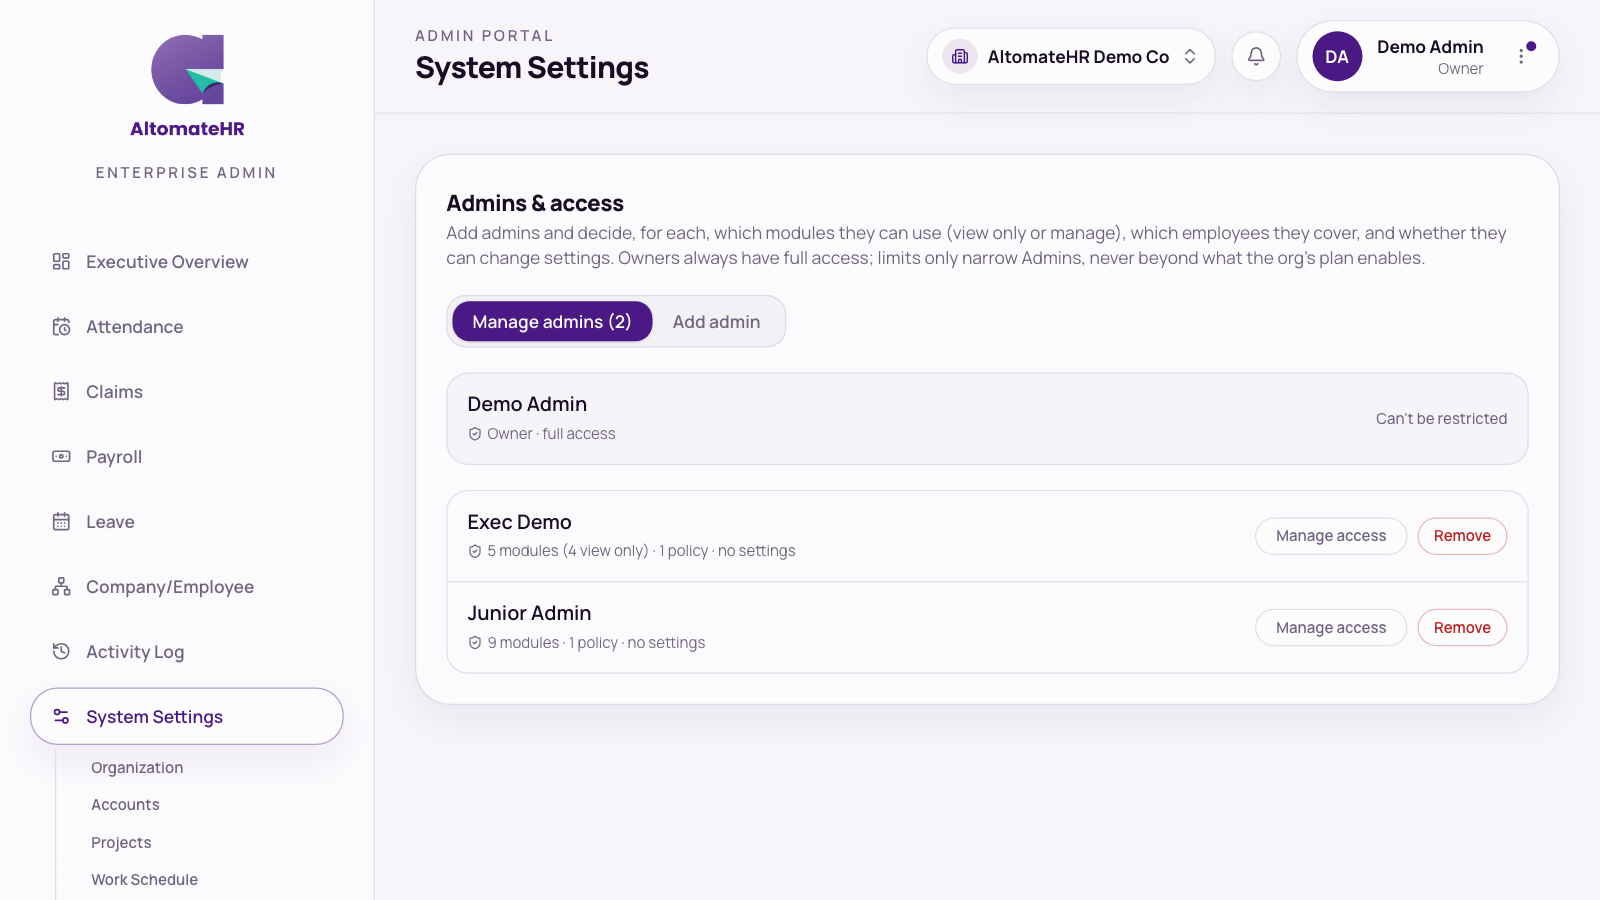
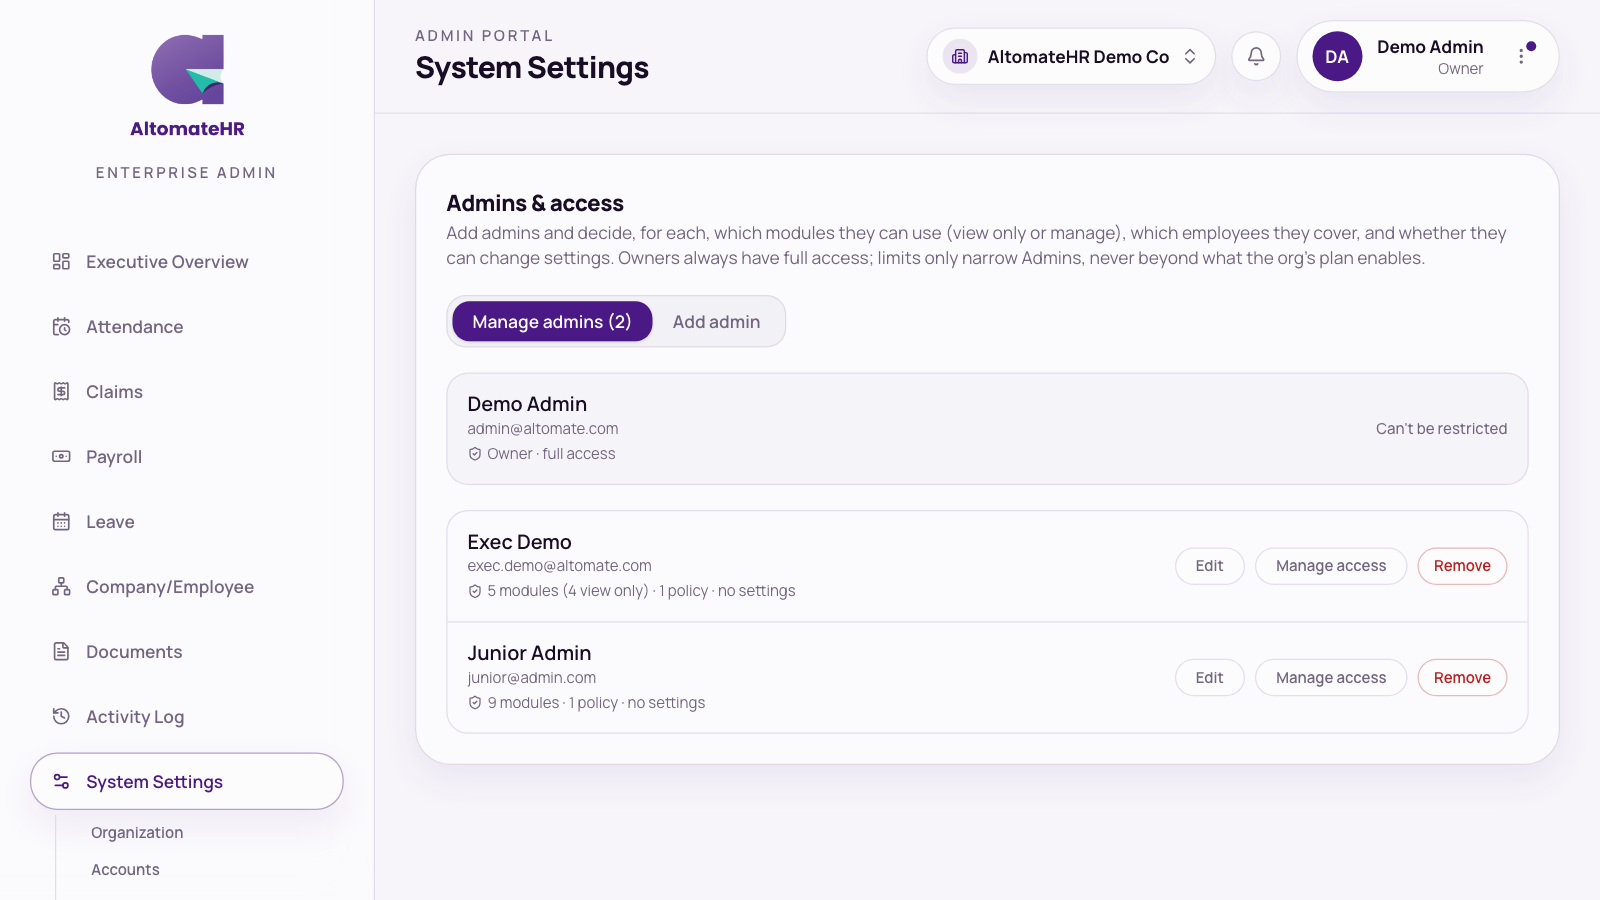
docs: what's new, API docs and guides for the zips and admin email edit

diff --git a/user-guide/altomatehr-admin-guide.html b/user-guide/altomatehr-admin-guide.html
@@ -7,7 +7,7 @@
   Bookmark: this page is correct as of this commit on main. The next update
   re-checks every user-visible change after it — from any branch — then
   moves it forward.
-  user-guide-covered-up-to: 5016471
+  user-guide-covered-up-to: dca207e
 -->
 <html lang="en">
 <head>
@@ -544,9 +544,14 @@
           saying so.</p></li>
       <li><h4>Admins <span class="badge owner">Owner only</span></h4>
         <p>Add admins and decide how far each one can go. Owners are listed too, marked <em>Owner · full access</em> —
-          an owner's access can't be restricted. Each admin row shows a one-line summary (for example
-          <em>5 modules (3 view only) · 1 policy · no settings</em>) and two buttons:</p>
+          an owner's access can't be restricted. Each admin row shows their name with their login email underneath, a one-line summary (for example
+          <em>5 modules (3 view only) · 1 policy · no settings</em>) and three buttons:</p>
         <ul>
+          <li><span class="btn-name">Edit</span> — opens <strong>Edit admin</strong> to change their
+            <strong>Name</strong> and <strong>Email</strong>, then <span class="btn-name">Save</span>. The email is the one
+            they sign in with, and it changes in every company they belong to. If that login also opens a company you
+            don't own, the email can't be changed here and the dialog tells you to ask Altomate support; the name can
+            still be changed.</li>
           <li><span class="btn-name">Manage access</span> — opens a dialog with three tabs, then
             <span class="btn-name">Save</span>:
             <ul>
@@ -576,8 +581,12 @@
     <figure class="shot" data-place="System Settings">
       <div class="shot-grid" data-orient="screen">
         <div class="shot-item">
-          <img src="shots/admin/admins-list.png" alt="System Settings → Admins: the owner marked full access, and an admin row with Manage access and Remove buttons" loading="lazy">
+          <img src="shots/admin/admins-list.png" alt="System Settings → Admins: the owner marked full access, and two admin rows, each with the login email under the name and Edit, Manage access and Remove buttons" loading="lazy">
           <p class="shot-cap">Admins</p>
+        </div>
+        <div class="shot-item">
+          <img src="shots/admin/admins-edit.png" alt="The Edit admin dialog with the Name and Email boxes, a note that the email changes in every company they belong to, and Cancel and Save" loading="lazy">
+          <p class="shot-cap">Edit admin</p>
         </div>
         <div class="shot-item">
           <img src="shots/admin/admins-access-modules.png" alt="The Manage access dialog on its Modules tab, with Off, View and Manage for each module" loading="lazy">
@@ -877,6 +886,13 @@
     </figure>
     <p>Edits are saved with the bar at the bottom. <span class="btn-name">Set password</span> in the header sets a new
       password for them — hand it over outside email.</p>
+    <p>The <strong>Email</strong> on a person's record is the email they sign in with, so it changes everywhere they
+      work. Saving is refused, with a message saying why, in these cases:</p>
+    <ul>
+      <li>The person's login is also used in a company you don't own. Ask Altomate support to change it.</li>
+      <li>The person is an admin and you aren't the owner. Only the owner can change an admin's login email.</li>
+      <li>The person is an owner. An owner's login email is changed only through Altomate support (an owner can change their own).</li>
+    </ul>
     <h3>Archiving, and employment history</h3>
     <p>On the Employment tab, turn on <strong>Archive this employee</strong> and set their last day and reason. Payroll
       still pays them up to their last day, then leaves them out. At the bottom of the tab, <strong>Employment
@@ -1576,9 +1592,10 @@
     <div class="tbl-scroll"><table>
       <thead><tr><th>Group</th><th>Files</th><th>Where it goes</th></tr></thead>
       <tbody>
-        <tr><td>Reports</td><td>Payroll Summary (as a PDF or as Excel), Payment Schedule (who is paid what, split into the bank file and those paid manually), PCB Calculation Details, Allowance Report (Excel), Deduction Report (Excel)</td><td>Your records / approver</td></tr>
+        <tr><td>Reports</td><td>Payroll Summary (as a PDF or as Excel), Payment Schedule (who is paid what, split into the bank file and those paid manually), PCB Calculation Details, Allowance &amp; Deduction Reports (ZIP)</td><td>Your records / approver</td></tr>
         <tr><td></td><td>AB Pay timesheet (Excel) — only if your company is connected to ABPay</td><td>The ABPay app, and your records</td></tr>
-        <tr><td>Statutory</td><td>EPF Contribution CSV</td><td>KWSP i-Akaun</td></tr>
+        <tr><td>Statutory</td><td><span class="btn-name">Download EPF, SOCSO &amp; PCB (zip)</span> — the four files below in one zip</td><td>See each file below</td></tr>
+        <tr><td></td><td>EPF Contribution CSV</td><td>KWSP i-Akaun</td></tr>
         <tr><td></td><td>SOCSO + EIS Contribution TXT (v1)</td><td>PERKESO ASSIST — for months before June 2026, or while PERKESO still accepts either layout (June to September 2026)</td></tr>
         <tr><td></td><td>SOCSO + EIS + SKBBK Contribution TXT (ASSIST 2.0)</td><td>PERKESO ASSIST 2.0 — compulsory from June 2026</td></tr>
         <tr><td></td><td>PCB / MTD TXT (CP39)</td><td>LHDN e-PCB — the file is named with your employer number, the month and the year, for example <em>6051351020072026.txt</em></td></tr>
@@ -1594,6 +1611,14 @@
         <em>… (1).txt</em>, and LHDN refuses that name. Rename it (for example to <em>6051351020072026.txt</em>), or
         use the first copy.</p>
     </div>
+    <h3>All the agency uploads in one zip</h3>
+    <p>At the <strong>Statutory uploads</strong> heading, <span class="btn-name">Download EPF, SOCSO &amp; PCB (zip)</span>
+      gives you one zip holding the EPF CSV, both SOCSO + EIS files (the v1 layout and the ASSIST 2.0 layout with SKBBK)
+      and the PCB file. Open the zip and upload each file to its own portal, named as in the table above. You don't have to tick anything first.</p>
+    <p>A file that can't be made yet — for example the PCB file when the employer tax number is missing — is left out
+      of the zip. A line under the heading says how many files came down, and the row of each missing file says why, in the
+      same words as when you download that file on its own. Fix what it asks for and press the button again. The single-file
+      buttons are still there when you only want one.</p>
     <h3>The bank file follows your bank</h3>
     <ul>
       <li><strong>Public Bank</strong> — ECP Bulk Payroll (.xlsx)</li>
@@ -1659,13 +1684,14 @@
         deductions the company keeps (loans and Miscellaneous / Other Deduction), not other deductions taken from net
         pay, such as CP38.</p>
     </div>
-    <h3>Allowance and Deduction reports (Excel)</h3>
-    <p>The Reports group also has <strong>Allowance Report (Excel)</strong> and <strong>Deduction Report (Excel)</strong>.
-      Each has one row per employee and one column per item, with a totals row at the bottom.</p>
+    <h3>Allowance and Deduction reports (ZIP)</h3>
+    <p>The Reports group has one row, <strong>Allowance &amp; Deduction Reports (ZIP)</strong>, with both Excel reports in
+      a single zip. (They used to be two separate rows.) Each report has one row per employee and one column per item,
+      with a totals row at the bottom.</p>
     <ul>
-      <li><strong>Allowance Report</strong> lists every allowance on the run. Benefits in kind are listed but not
+      <li><strong>Allowance report</strong> lists every allowance on the run. Benefits in kind are listed but not
         counted as cash in the totals.</li>
-      <li><strong>Deduction Report</strong> lists deductions other than EPF, SOCSO, EIS and PCB, such as loans, unpaid
+      <li><strong>Deduction report</strong> lists deductions other than EPF, SOCSO, EIS and PCB, such as loans, unpaid
         leave and advances. Unpaid leave and advances are listed but not added into the total, because the payslip
         takes them off gross pay instead.</li>
     </ul>
@@ -1689,7 +1715,12 @@
     <figure class="shot" data-place="Files">
       <div class="shot-grid" data-orient="screen">
         <div class="shot-item">
-          <img src="shots/admin/payroll-downloads.png" alt="The Download files dialog, Reports group: Payroll Summary, Allowance Report (Excel), Deduction Report (Excel) and Payment Schedule" loading="lazy">
+          <img src="shots/admin/payroll-downloads.png" alt="The Download files dialog, Reports group: Payroll Summary, Allowance &amp; Deduction Reports (ZIP), Payment Schedule and PCB Calculation Details" loading="lazy">
+          <p class="shot-cap">Reports</p>
+        </div>
+        <div class="shot-item">
+          <img src="shots/admin/payroll-downloads-statutory.png" alt="The Statutory uploads group in the Download files dialog, with the Download EPF, SOCSO &amp; PCB (zip) button beside the heading and the four agency files below it" loading="lazy">
+          <p class="shot-cap">Statutory uploads, one zip</p>
         </div>
       </div>
       <p class="shot-cap shot-cap-main">Downloading the month's files</p>

diff --git a/api-docs/payroll-runs.html b/api-docs/payroll-runs.html
@@ -1163,7 +1163,7 @@ curl -X PATCH https://&lt;api-host&gt;/payroll/runs/run_123 \
         <code>Payroll_Summary_January_2026_Workers.pdf</code>,
         <code>ABPay {Company name} 2026-01 Workers.xlsx</code> &mdash; except the PCB (CP39) file, whose name is
         letters and digits only because the e-PCB upload refuses anything else: <code>{10-digit employer no}012026Workers.txt</code>.
-        This covers the statutory files, the bank file, the payslips ZIP, the documents bundle, the run
+        This covers the statutory files, the bank file, the payslips ZIP, the documents bundle, the statutory and allowance/deduction zips, the run
         summary, payment schedule, PCB details, allowance, deduction and manual-payment reports and the
         ABPay timesheet. The single payslip PDF and the TP1 documents are per employee and keep their names.
         A run's own documents (summary, payment schedule, and so on) head their pages with the run
@@ -1240,6 +1240,39 @@ curl -X PATCH https://&lt;api-host&gt;/payroll/runs/run_123 \
         </ul>
 <pre><code>curl https://&lt;api-host&gt;/payroll/runs/run_123/files/pcb \
   -H "Authorization: Bearer wp_live_xxx" -o pcb.txt</code></pre>
+      </section>
+
+      <section class="endpoint" id="file-statutory-zip">
+        <div class="endpoint-head">
+          <span class="method get">GET</span>
+          <span class="path">/payroll/runs/{id}/files/statutory</span>
+          <span class="tag scope">payroll:read</span>
+        </div>
+        <p>The four statutory uploads above &mdash; EPF, SOCSO + EIS, SOCSO + EIS with SKBBK, and PCB (CP39) &mdash; in one zip, for the month-end filing.</p>
+        <p>The run must be approved and calculated here, as in the rest of this section: an unapproved run, or one imported from a previous system, answers <code>409</code>.</p>
+        <div class="callout warn">
+          <strong>A file that can't be produced is left out, not an error.</strong> A missing PERKESO Employer Code, a missing LHDN E-number or a non-numeric EPF number costs you that one file only; the rest still arrive. The same checks as the single-file routes apply &mdash; they just don't fail the request. Read the headers below to see what is missing. The reasons are not in a 200 response; call the single-file route for that file to read its message.
+        </div>
+        <h3>Response <code>200</code></h3>
+        <p><code>Content-Type: application/zip</code>, filename <code>Statutory_{Month}_{Year}.zip</code> (e.g. <code>Statutory_January_2026.zip</code>; a named run adds its <a href="#run-files">tag</a>). Inside, each file keeps the name it has when downloaded on its own, in the order EPF, SOCSO + EIS, SOCSO + EIS (SKBBK), PCB. Two extra headers:</p>
+        <div class="table-wrap">
+          <table>
+            <thead><tr><th>Header</th><th>Meaning</th></tr></thead>
+            <tbody>
+              <tr><td><code>X-Bundle-File-Count</code></td><td>How many files are in the zip (1 to 4).</td></tr>
+              <tr><td><code>X-Bundle-Skipped</code></td><td>Comma-separated keys of files left out, from <code>epf</code>, <code>socso-eis</code>, <code>socso-eis-skbbk</code>, <code>pcb</code>. Omitted entirely when nothing was left out.</td></tr>
+            </tbody>
+          </table>
+        </div>
+        <p>Browsers calling from another origin can read both headers and <code>Content-Disposition</code>.</p>
+        <h3>Errors</h3>
+        <ul>
+          <li><code>404</code> &mdash; no such run (empty body).</li>
+          <li><code>409</code> <code>{ "error": "…" }</code> &mdash; the run is not approved, or was imported from a previous system.</li>
+          <li><code>409</code> <code>{ "error": "None of the statutory files could be produced for this run. Each file's reason is listed with it.", "skipped": { "epf": "…", "socso-eis": "…", "socso-eis-skbbk": "…", "pcb": "…" } }</code> &mdash; none of the four could be produced. <code>skipped</code> maps each file's key to why. An empty zip is never returned.</li>
+        </ul>
+<pre><code>curl https://&lt;api-host&gt;/payroll/runs/run_123/files/statutory \
+  -H "Authorization: Bearer wp_live_xxx" -D - -o statutory.zip</code></pre>
       </section>
     </section>
 
@@ -1527,6 +1560,35 @@ curl "https://&lt;api-host&gt;/payroll/runs/month/2026/1/summary?format=xlsx" \
         </ul>
 <pre><code>curl https://&lt;api-host&gt;/payroll/runs/run_123/documents/deductions \
   -H "Authorization: Bearer wp_live_xxx" -o deductions.xlsx</code></pre>
+      </section>
+
+      <section class="endpoint" id="doc-allowances-deductions">
+        <div class="endpoint-head">
+          <span class="method get">GET</span>
+          <span class="path">/payroll/runs/{id}/documents/allowances-deductions</span>
+          <span class="tag scope">payroll:read</span>
+        </div>
+        <p>The <a href="#doc-allowances">Allowance report</a> and the <a href="#doc-deductions">Deduction report</a> in one zip. Same rules as the <a href="#file-statutory-zip">statutory zip</a>: the run must be approved and calculated here, and a report that can't be produced is left out rather than failing the request.</p>
+        <p>A run with only one of the two zips that one and names the other in <code>X-Bundle-Skipped</code> (for example a run with no allowances).</p>
+        <h3>Response <code>200</code></h3>
+        <p><code>Content-Type: application/zip</code>, filename <code>Allowance_Deduction_Reports_{Month}_{Year}.zip</code> (a named run adds its <a href="#run-files">tag</a>). Inside, the workbooks keep the names they have when downloaded on their own (<code>Allowance_Report_&hellip;.xlsx</code>, <code>Deduction_Report_&hellip;.xlsx</code>). Two extra headers:</p>
+        <div class="table-wrap">
+          <table>
+            <thead><tr><th>Header</th><th>Meaning</th></tr></thead>
+            <tbody>
+              <tr><td><code>X-Bundle-File-Count</code></td><td>How many reports are in the zip (1 or 2).</td></tr>
+              <tr><td><code>X-Bundle-Skipped</code></td><td>Comma-separated keys of reports left out, from <code>allowances</code>, <code>deductions</code>. Omitted entirely when nothing was left out.</td></tr>
+            </tbody>
+          </table>
+        </div>
+        <h3>Errors</h3>
+        <ul>
+          <li><code>404</code> &mdash; no such run (empty body).</li>
+          <li><code>409</code> <code>{ "error": "…" }</code> &mdash; the run is not approved, or was imported from a previous system.</li>
+          <li><code>409</code> <code>{ "error": "No allowances on this run, and no deductions other than EPF, SOCSO, EIS and PCB.", "skipped": { "allowances": "…", "deductions": "…" } }</code> &mdash; neither report has anything to show. An empty zip is never returned.</li>
+        </ul>
+<pre><code>curl https://&lt;api-host&gt;/payroll/runs/run_123/documents/allowances-deductions \
+  -H "Authorization: Bearer wp_live_xxx" -D - -o reports.zip</code></pre>
       </section>
 
       <section class="endpoint" id="doc-bank-file">

diff --git a/api-docs/employees.html b/api-docs/employees.html
@@ -232,7 +232,7 @@
             <thead><tr><th>Field</th><th>Type</th><th>Required</th><th>Notes</th></tr></thead>
             <tbody>
               <tr><td><code>name</code></td><td>string | null</td><td>No</td><td>Max 160 chars. <code>null</code> = unchanged.</td></tr>
-              <tr><td><code>email</code></td><td>string | null</td><td>No</td><td>Max 120 chars. <code>null</code> = unchanged; rejected if another user already has it.</td></tr>
+              <tr><td><code>email</code></td><td>string | null</td><td>No</td><td>Max 120 chars. <code>null</code> = unchanged; rejected if another user already has it. Sending the member's current address is not a change. Changing it is further restricted &mdash; see <a href="#update-employee-email">Changing the login email</a>.</td></tr>
               <tr><td><code>employeeNumber</code></td><td>string | null</td><td>No</td><td>Max 40 chars. <code>null</code> = unchanged, <code>""</code> = clear.</td></tr>
               <tr><td><code>jobTitle</code></td><td>string | null</td><td>No</td><td>Max 120 chars. <code>null</code> = unchanged, <code>""</code> = clear.</td></tr>
               <tr><td><code>nickname</code></td><td>string | null</td><td>No</td><td>Max 60 chars. <code>null</code> = unchanged, <code>""</code> = clear.</td></tr>
@@ -252,10 +252,35 @@
           <table>
             <thead><tr><th>Status</th><th>When</th><th>Body</th></tr></thead>
             <tbody>
-              <tr><td><code>400</code></td><td>Bad role, duplicate email, or demoting someone who still has people routing approvals to them</td><td><code>{ "error": "…" }</code></td></tr>
+              <tr><td><code>400</code></td><td>Bad role, duplicate email, an email change that is refused (<a href="#update-employee-email">below</a>), or demoting someone who still has people routing approvals to them</td><td><code>{ "error": "…" }</code></td></tr>
               <tr><td><code>404</code></td><td><code>{id}</code> is not a member of this organization</td><td>empty</td></tr>
             </tbody>
           </table>
+        </div>
+        <h3 id="update-employee-email">Changing the login email</h3>
+        <p>
+          A login email belongs to the person, not to the company: it signs them in to <em>every</em>
+          company they are a member of, and anyone who controls the address can reset the password. So
+          an email <strong>change</strong> (a different address from the one on file, ignoring case) is
+          refused with <code>400</code> <code>{ "error": "…" }</code> when any of these hold. Re-sending
+          the current address is always fine.
+        </p>
+        <div class="table-wrap">
+          <table>
+            <thead><tr><th>When</th><th><code>error</code></th></tr></thead>
+            <tbody>
+              <tr><td>The target's role in this company is <code>Owner</code></td><td><code>"An owner's login email can't be changed from here. Contact support."</code></td></tr>
+              <tr><td>The target is an <code>Admin</code> and the caller is not the Owner</td><td><code>"Only the organization's owner can change an admin's login email."</code></td></tr>
+              <tr><td>The person's login is also a member of another company the caller does not own</td><td><code>"This person's login is also used in a company you don't own, so its email can't be changed from here. Ask Altomate support to change it."</code></td></tr>
+            </tbody>
+          </table>
+        </div>
+        <div class="callout warn">
+          <strong>For an API key this means:</strong> a key acts as an Admin and owns no company, so it can
+          change the email only of an <code>Employee</code> or <code>Supervisor</code> whose login belongs to
+          this company alone. It can never change an Admin's or the Owner's email, nor the email of someone
+          who also belongs to another company. Everything else in the request (name, role, and so on) is
+          still applied normally when you leave <code>email</code> out or unchanged.
         </div>
 <pre><code>curl -X PUT https://&lt;api-host&gt;/employees/usr_123 \
   -H "Authorization: Bearer wp_live_xxx" \

diff --git a/frontend/src/features/whats-new/lib/entries.ts b/frontend/src/features/whats-new/lib/entries.ts
@@ -8,7 +8,7 @@
 //
 // Bookmark: the last commit on main these notes already cover. The next update
 // writes up everything after it — from any branch — then moves it forward.
-// whats-new-covered-up-to: 5016471
+// whats-new-covered-up-to: dca207e
 
 export type WhatsNewEntry = {
   /** Release day, yyyy-MM-dd (Malaysia time). Also what "unread" compares. */
@@ -21,6 +21,19 @@ export type WhatsNewEntry = {
 };
 
 export const WHATS_NEW: WhatsNewEntry[] = [
+  {
+    date: "2026-10-25",
+    new: [
+      "Admins: Payroll → Run downloads has a new \"Download EPF, SOCSO & PCB (zip)\" button for the four statutory files. A file that isn't ready is left out, and its row says why.",
+      "Admins: Settings → Admins now shows each admin's and the owner's email under their name. The owner can also Edit an admin's name and login email.",
+    ],
+    improved: [
+      "Admins: in Payroll → Run downloads, the Allowance and Deduction reports are now one row, \"Allowance & Deduction Reports (ZIP)\", giving both Excel files in one zip.",
+      "Admins: if a run has only one of the two reports, the zip holds that one and says which is missing.",
+      "Admins: you can't change a login email if that login also opens a company you don't own, on the employee edit or the Admins page. Altomate support still can.",
+      "Admins: only the owner can change an admin's login email, and another owner's only through Altomate support.",
+    ],
+  },
   {
     date: "2026-10-23",
     new: [

diff --git a/api-docs/organization.html b/api-docs/organization.html
@@ -803,7 +803,8 @@
       <h2>Not available to API keys</h2>
       <p>
         Listing admins and setting their module access (<code>GET /organizations/admins</code>,
-        <code>PUT /organizations/admins/{userId}/access</code>), removing an admin
+        <code>PUT /organizations/admins/{userId}/access</code>), editing an admin's name and login email
+        (<code>PUT /organizations/admins/{userId}</code>), removing an admin
         (<code>DELETE /organizations/admins/{userId}</code>), creating a company
         (<code>POST /organizations</code>) and changing a company's plan
         (<code>PUT /organizations/{organizationId}/plan</code>) answer <code>403</code> to any

diff --git a/api-docs/index.html b/api-docs/index.html
@@ -25,7 +25,7 @@
   Bookmark: the pages that exist are correct as of this commit on main. The
   next update re-checks every controller/DTO changed after it — from any
   branch — then moves it forward.
-  api-docs-covered-up-to: 5016471
+  api-docs-covered-up-to: dca207e
 -->
 <div class="layout">
   <nav class="sidebar" aria-label="Documentation">

diff --git a/user-guide/altomatehr-employee-guide.html b/user-guide/altomatehr-employee-guide.html
@@ -7,7 +7,7 @@
   Bookmark: this page is correct as of this commit on main. The next update
   re-checks every user-visible change after it — from any branch — then
   moves it forward.
-  user-guide-covered-up-to: 5016471
+  user-guide-covered-up-to: dca207e
 -->
 <html lang="en">
 <head>
